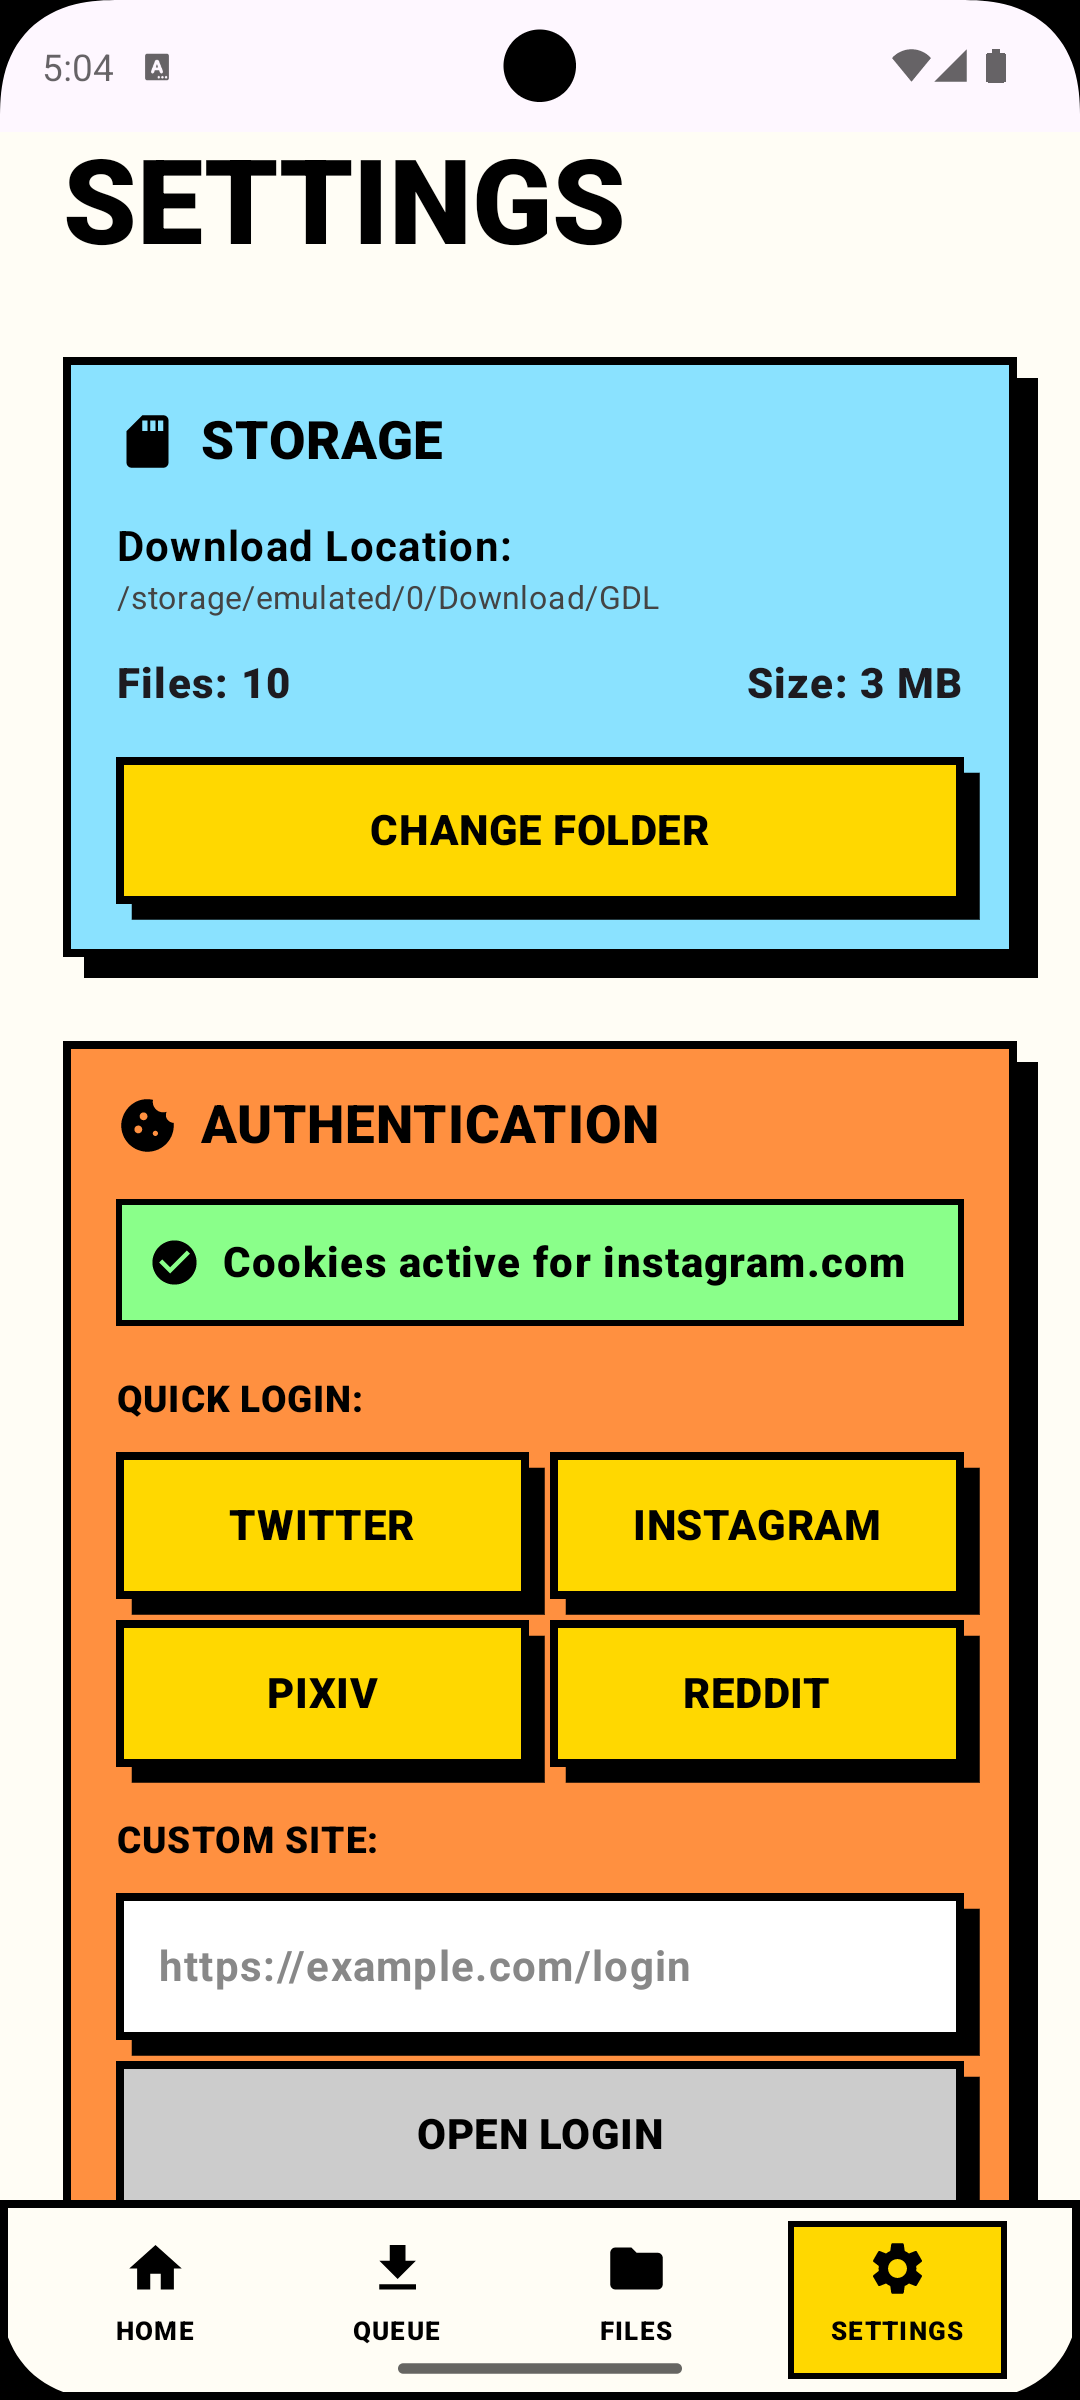
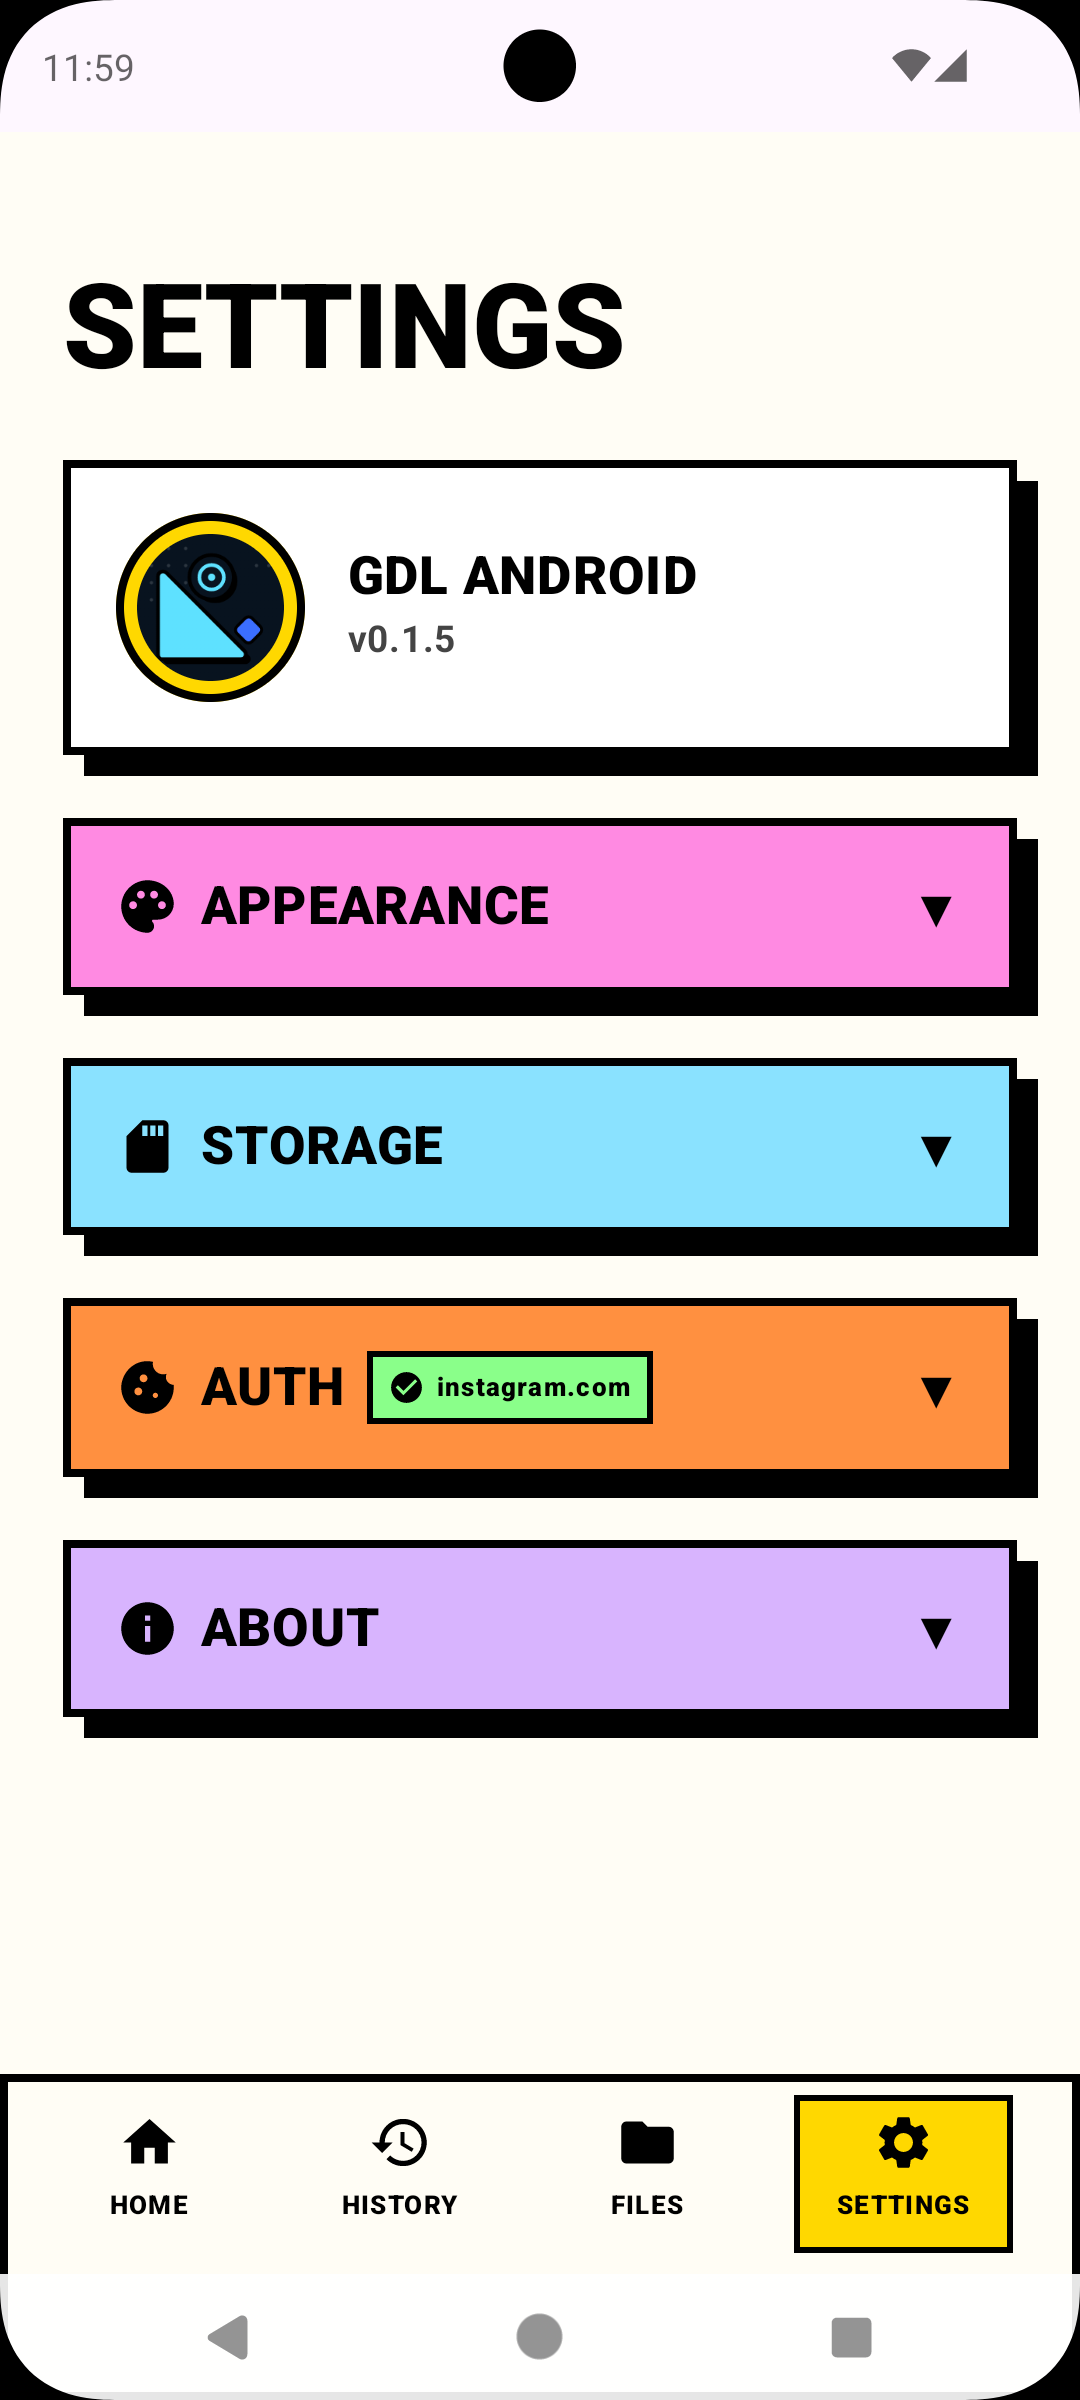
README.md Update

diff --git a/README.md b/README.md
@@ -10,7 +10,7 @@
 ## 📸 Screenshots
 <div align="center">
   <img src="docs/images/Home.png" width="19%" />
-  <img src="docs/images/Queue.png" width="19%" />
+  <img src="docs/images/History.png" width="19%" />
   <img src="docs/images/Files1.png" width="19%" />
   <img src="docs/images/Files2.png" width="19%" />
   <img src="docs/images/Settings.png" width="19%" />
@@ -25,6 +25,8 @@
 *   **Share Intent Support:** Send URLs directly from your browser to GDL Android using the native Android share menu.
 *   **Custom Storage:** Downloads default to the public `/Download/GDL/` folder, or you can choose your own custom storage directory.
 *   **Built-in Gallery:** View all your downloaded images in a fast, newest-first grid using Coil, or browse the raw folder structure.
+*   **In-App Authentication:** Built-in Webview to easily log into sites and extract cookies (also supports importing Netscape cookies.txt files).
+*   **Settings & Updates:** Customize your app's theme and download paths, and check for new releases directly within the app.
 
 
 ## 🛠 Technology Stack
@@ -61,8 +63,8 @@
 
 ## 🤝 Contributing
 
-Contributions are welcome! If you have suggestions or want to add support for features like cookie injection or per-site authentication, feel free to open a Pull Request.
+Contributions are welcome! If you have suggestions or want to add support for new features, feel free to open a Pull Request.
 
 ## 📝 License
 
-This project is open-source. (Note: `gallery-dl` is licensed under GPLv2).
+This project is open-source and licensed under the **GNU GPLv3** license. (Note: The underlying `gallery-dl` library is licensed under GPLv2).
